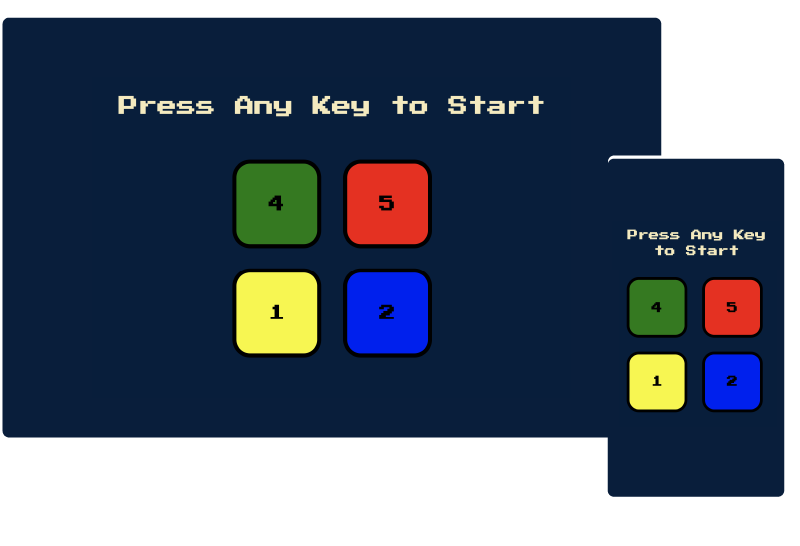
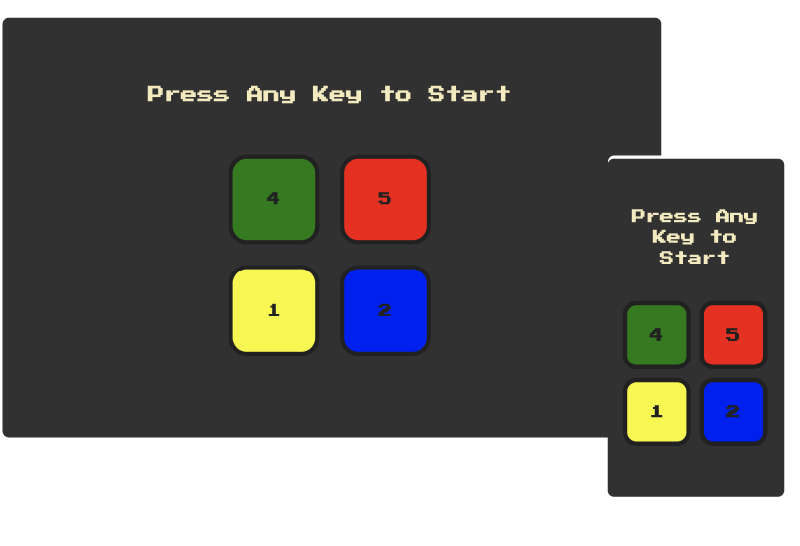
Update image and add link for simon game project

diff --git a/public_html/js/script.js b/public_html/js/script.js
@@ -61,7 +61,7 @@ function switchProject (project) {
   } else if (project === 'diy-calculator') {
     $('#project-link').attr('href', 'https://www.liquidbarn.com/pages/eliquid-calculator')
   } else if (project === 'simon-game') {
-    $('#project-link').attr('href', '#')
+    $('#project-link').attr('href', 'https://keithfunkhouser.github.io/simon-game/')
   }
 }
 
